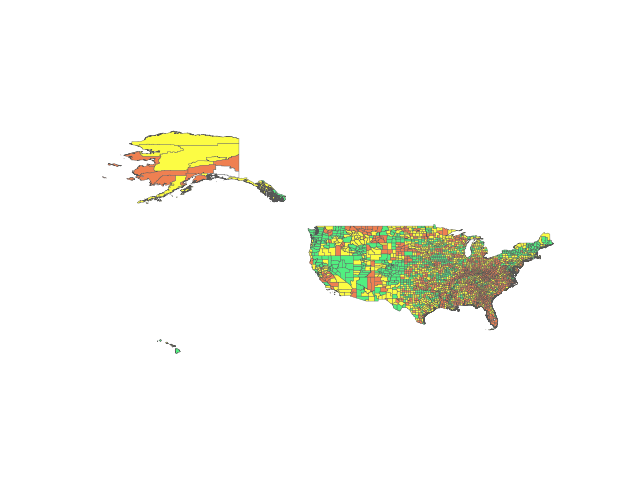
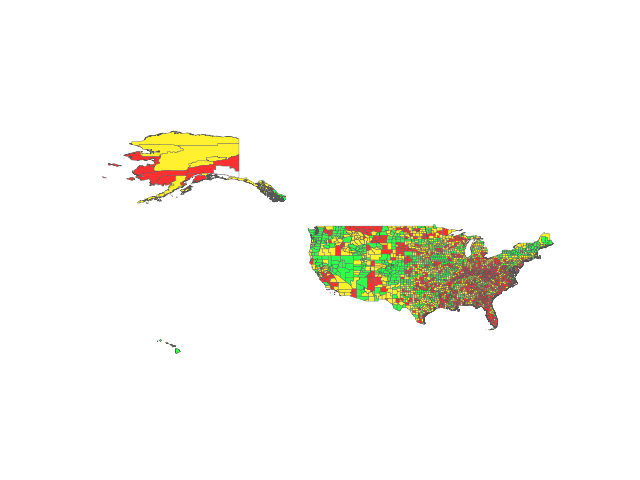
Updated coloring.

Changed region(s): [[0.4688, 0.4688, 0.8125, 0.6875], [0.1875, 0.3125, 0.375, 0.4062], [0.8125, 0.5, 0.8438, 0.5312]]

diff --git a/plotter.py b/plotter.py
@@ -24,18 +24,33 @@ for file in data_files:
     for county in data:
         fips = county["fips"]
         level = county["communityLevels"]["cdcCommunityLevel"]
-        if level == 0:
-            color = "#51EF80"
-        elif level == 1:
-            color = "#FCFC44"
-        elif level == 2:
-            color = "#EF8051"
-        elif level == 3:
-            color = "#EF2D2D"
-        map_df.loc[map_df["FIPS"] == fips, "LEVEL"] = color
+        if level != None:
+            if level == 0:
+                color = "#30FF4B"
+            elif level == 1:
+                color = "#FFF130"
+            elif level == 2:
+                color = "#FF3030"
+            map_df.loc[map_df["FIPS"] == fips, "LEVEL"] = color
     
     counties = map_df.loc[map_df["TIME_ZONE"].isin(valid_time_zones)]
-    ax = counties.plot("geometry", color=counties["LEVEL"], edgecolor="#565656", linewidth=0.25)
+    ax = counties.plot(color=counties["LEVEL"], edgecolor="#565656", linewidth=0.25)
     ax.set_axis_off()
     ax.figure.savefig(f"{file.split('.')[0]}.png")
+
     
+# for file in data_files:
+    
+#     max_level = 0
+    
+#     with open(file, 'rb') as f:
+#         data = pickle.load(f)
+    
+#     for county in data:
+#         fips = county["fips"]
+#         level = county["communityLevels"]["cdcCommunityLevel"]
+#         if level and level > max_level:
+#             max_level = level
+
+# print(max_level)
+        
